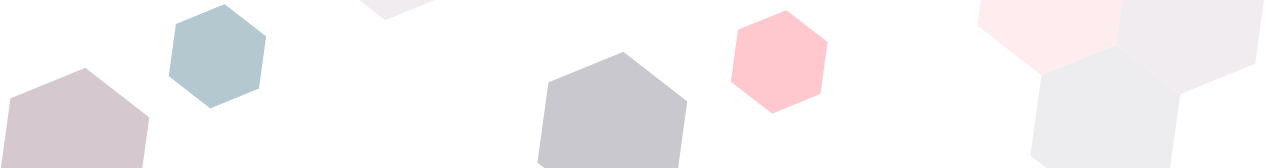
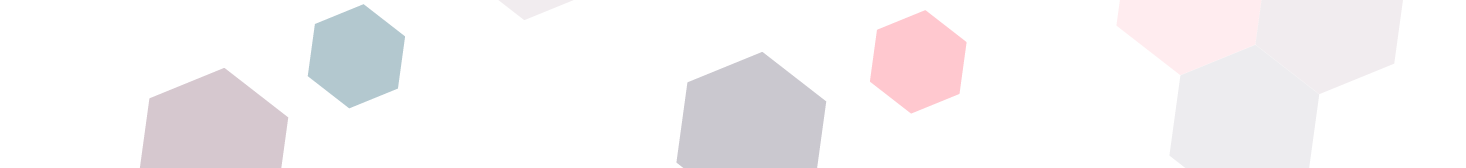
Update footer styles

Changed region(s): [[0.0, 0.0298, 0.2762, 1.0], [0.3989, 0.0595, 0.6751, 1.0]]

diff --git a/demo/styles.css b/demo/styles.css
@@ -122,7 +122,7 @@ footer {
     border-top: 1px solid #e2e2e2;
     background-repeat: no-repeat;
     background-image: url("images/footer.png");
-    background-position: 45% 0;
+    background-position: 50% 0;
     height: 168px;
     color: #5d5d5d;
     font-family: Arial, Verdana, sans-serif;
@@ -133,6 +133,11 @@ footer p {
     width: 600px;
     margin-left: auto;
     margin-right: auto;
+}
+
+footer p:first-child,
+footer p:last-child {
+    margin-top: 2em;
 }
 
 footer a {
